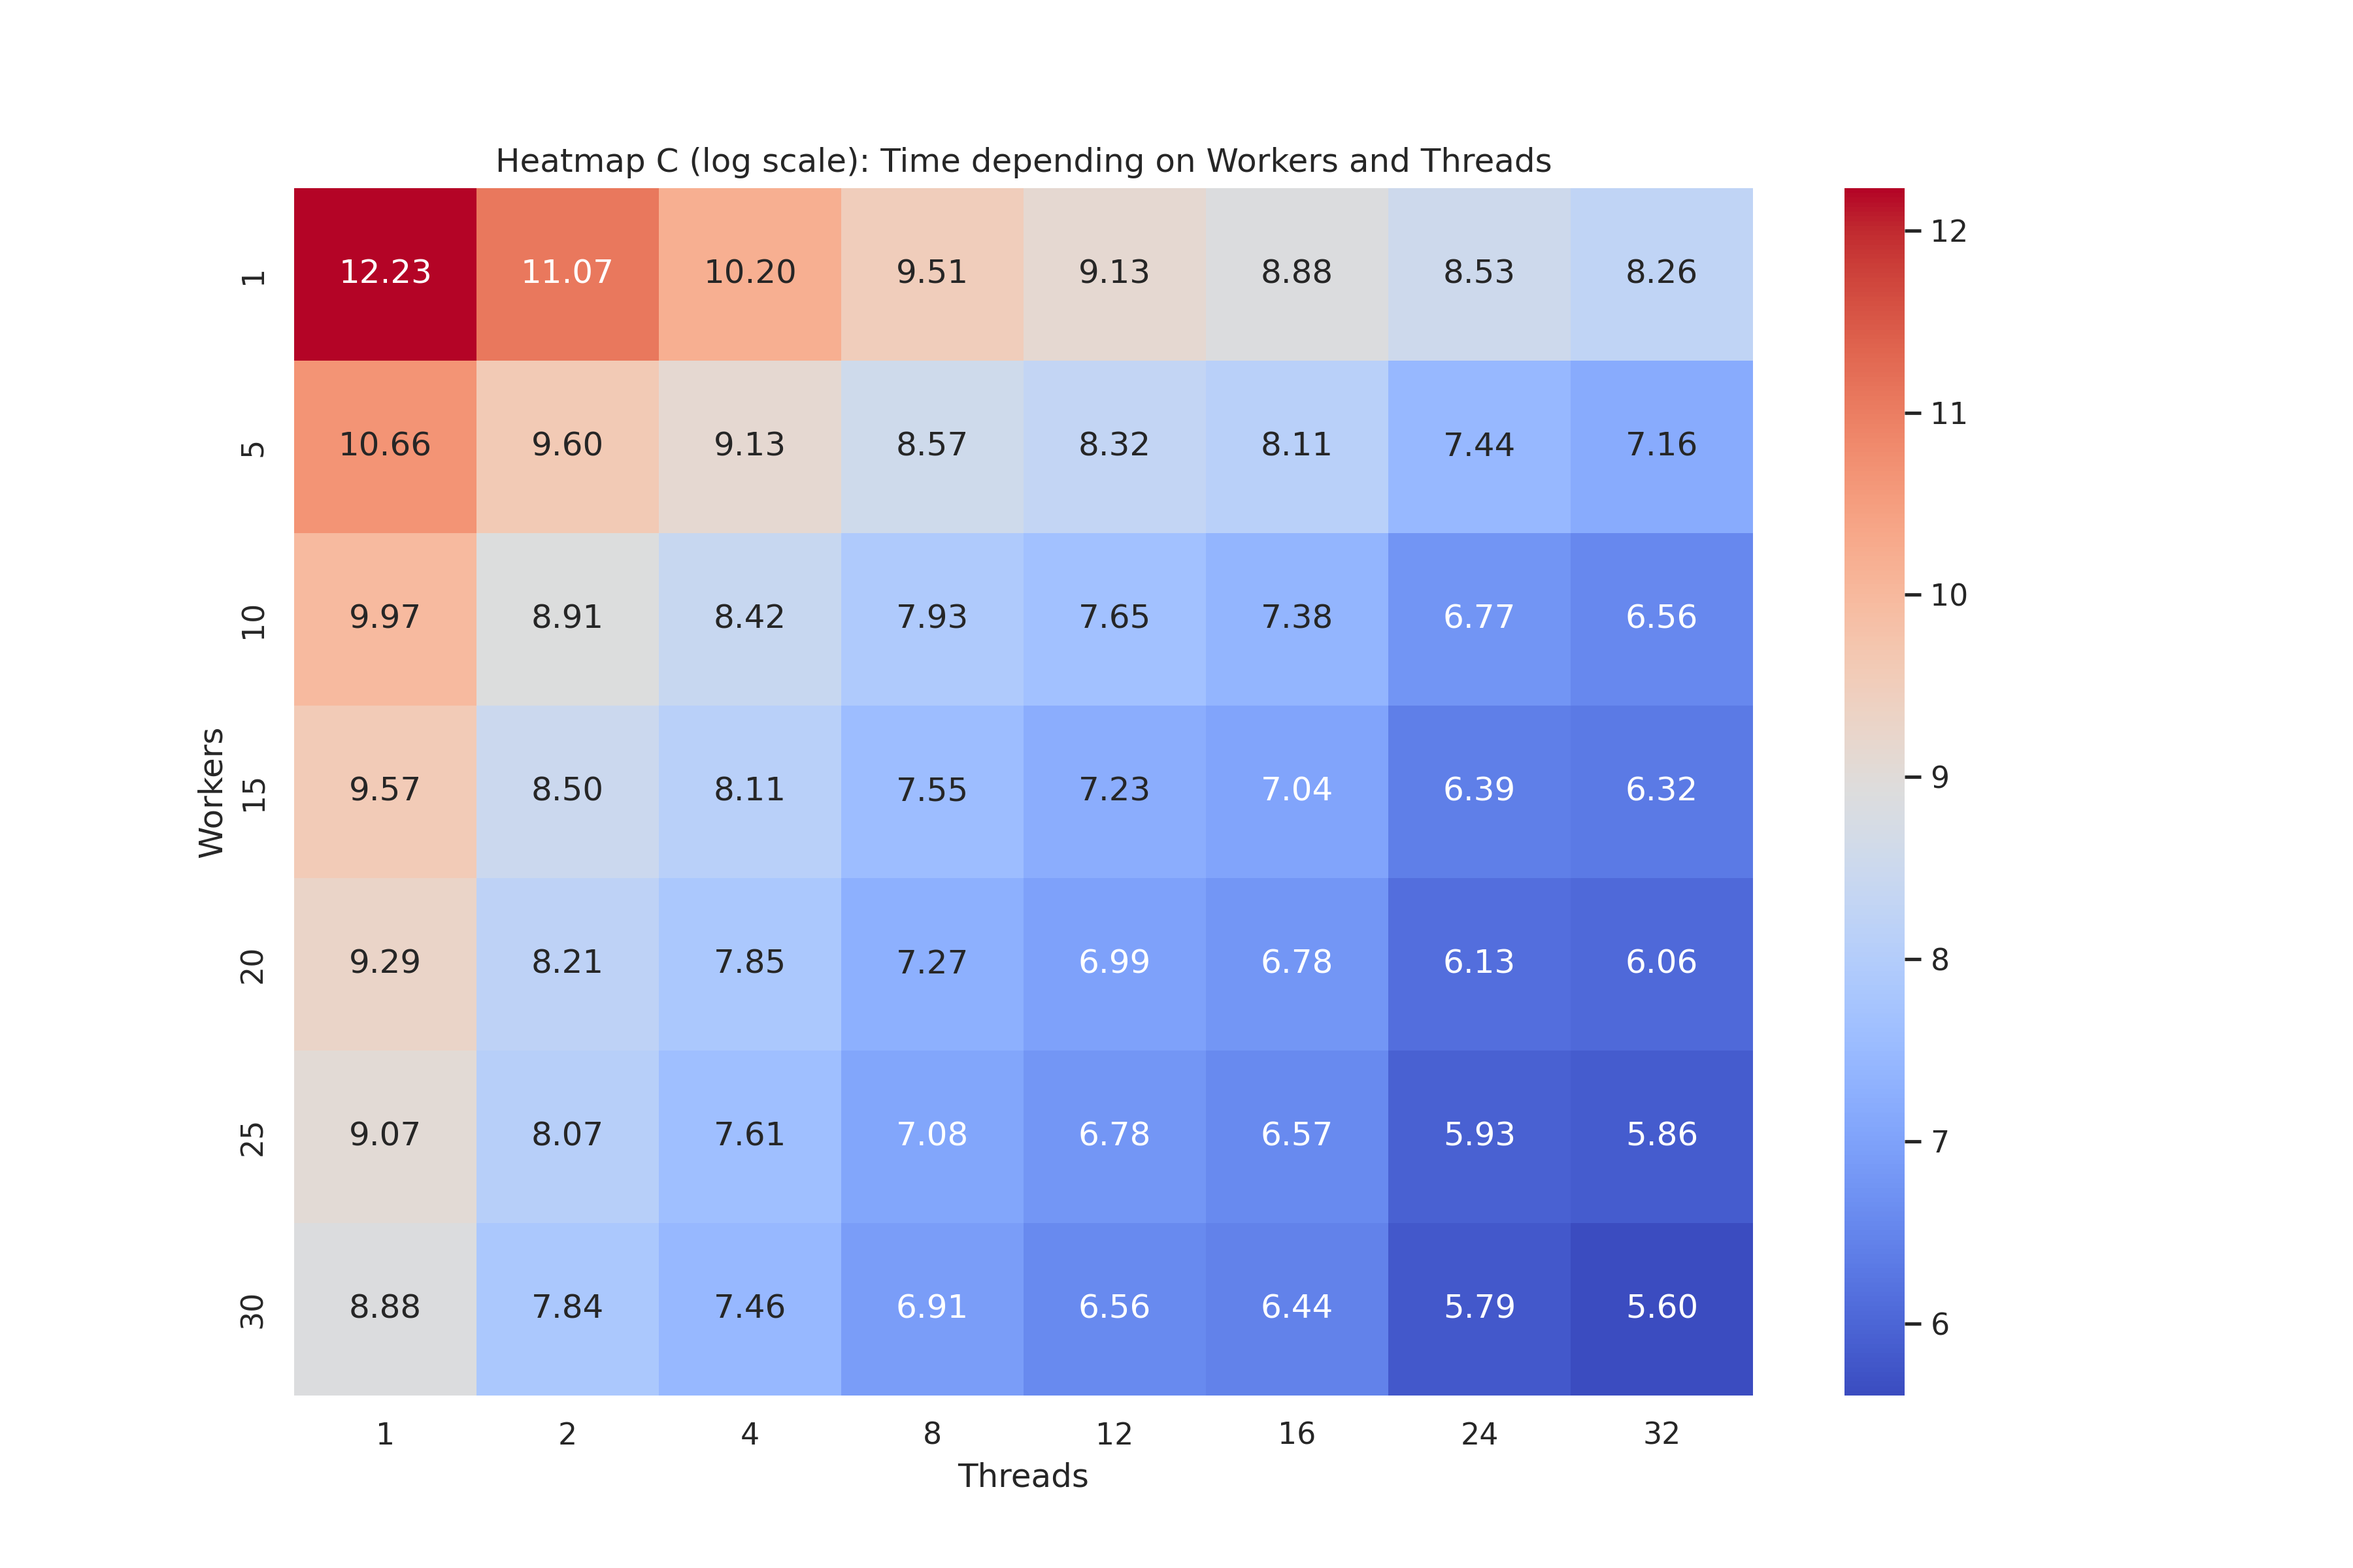
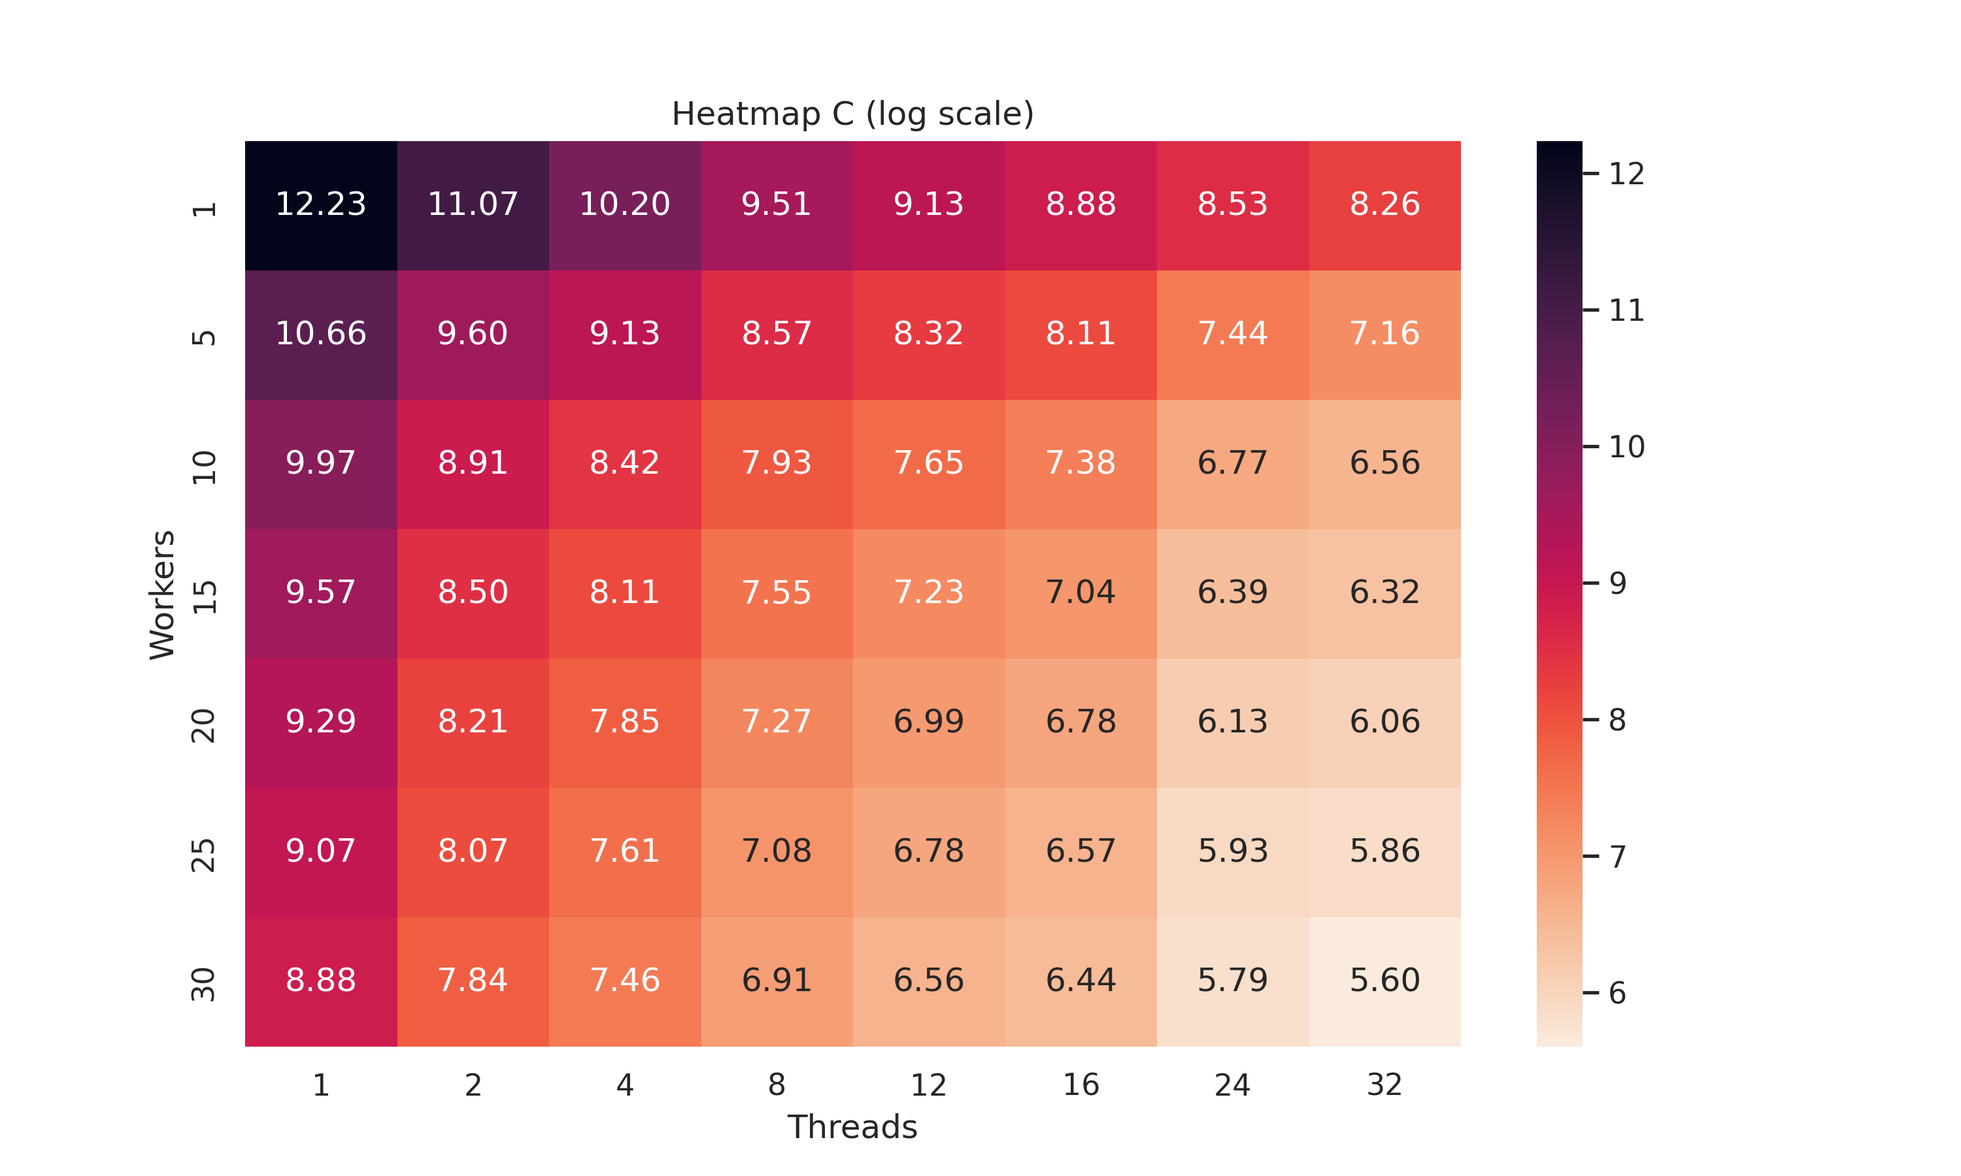
Removed cuda graph and added to combined, also modified figsize of several plots

diff --git a/resultados/result_diagrams.py b/resultados/result_diagrams.py
@@ -9,8 +9,6 @@ if not os.path.exists("diagrams"):
     os.makedirs("diagrams")
 
 
-# Función para crear todos los gráficos de las ejecuciones en C (múltiples optimizaciones)
-# columnas: n,workers,threads,total_cpus,opt_level,time
 def plot_graphs_c(data):
     if not os.path.exists("diagrams/c"):
         os.makedirs("diagrams/c")
@@ -18,17 +16,15 @@ def plot_graphs_c(data):
     sns.set_theme(style="whitegrid")
 
     pivot_table = np.log1p(data.pivot_table(values="time", index="workers", columns="threads"))
-    plt.figure(figsize=(12, 8))
-    sns.heatmap(pivot_table, annot=True, fmt=".2f", cmap="coolwarm")
-    plt.title("Heatmap C (log scale): Time depending on Workers and Threads")
+    plt.figure(figsize=(10, 6))
+    sns.heatmap(pivot_table, annot=True, fmt=".2f", cmap="rocket_r")
+    plt.title("Heatmap C (log scale)")
     plt.xlabel("Threads")
     plt.ylabel("Workers")
     plt.savefig("diagrams/c/heatmap_time.png", dpi=300)
     plt.close()
 
 
-# Función para crear todos los gráficos de las ejecuciones en Java (sin optimizaciones)
-# columnas: n,workers,threads,total_cpus,time
 def plot_graphs_java(data):
     if not os.path.exists("diagrams/java"):
         os.makedirs("diagrams/java")
@@ -36,40 +32,18 @@ def plot_graphs_java(data):
     sns.set_theme(style="whitegrid")
 
     pivot_table = np.log1p(data.pivot_table(values="time", index="workers", columns="threads"))
-    plt.figure(figsize=(12, 8))
-    sns.heatmap(pivot_table, annot=True, fmt=".1f", cmap="coolwarm")
-    plt.title("Heatmap Java (log scale): Time depending on Workers and Threads")
+    plt.figure(figsize=(10, 6))
+    sns.heatmap(pivot_table, annot=True, fmt=".2f", cmap="rocket_r")
+    plt.title("Heatmap Java (log scale)")
     plt.xlabel("Threads")
     plt.ylabel("Workers")
     plt.savefig("diagrams/java/heatmap_time.png", dpi=300)
     plt.close()
 
 
-# Función para crear todos los gráficos de las ejecuciones en CUDA (múltiples optimizaciones)
-# columnas: n,optimization,elapsed_time
-def plot_graphs_cuda(data):
-    if not os.path.exists("diagrams/cuda"):
-        os.makedirs("diagrams/cuda")
-
-    sns.set_theme(style="whitegrid")
-    custom_palette = sns.color_palette("bright")
-    lw = 1.5
-
-    plt.figure(figsize=(10, 6))
-    sns.lineplot(data=data, x="n", y="elapsed_time", hue="optimization", style="optimization", markers=True, dashes=False,
-                 palette=custom_palette, linewidth=lw, errorbar=None)
-    plt.title("Time vs. N")
-    plt.xlabel("N")
-    plt.ylabel("Time (s)")
-    plt.legend(title="Optimization")
-    plt.yscale("log")
-    plt.savefig("diagrams/cuda/time_vs_n_log.png", dpi=300)
-    plt.close()
-
-
-def plot_graphs_c_java_combined(c_data, java_data):
-    if not os.path.exists("diagrams/c_java"):
-        os.makedirs("diagrams/c_java")
+def plot_graphs_all_combined(c_data, java_data, cuda_data):
+    if not os.path.exists("diagrams/combined"):
+        os.makedirs("diagrams/combined")
 
     sns.set_theme(style="whitegrid")
     custom_palette = sns.color_palette("bright")
@@ -112,26 +86,47 @@ def plot_graphs_c_java_combined(c_data, java_data):
         ax.set_ylim(y_min - y_range * margin_factor, y_max + y_range * margin_factor)
         ax.set_xticks(x_ticks)
 
-    plt.savefig("diagrams/c_java/time_vs_threads.png", dpi=300)
+    plt.savefig("diagrams/combined/time_vs_threads.png", dpi=300)
     plt.close()
 
     # Single plot with Java data appended to the C data (adding a new column to the java one: opt_level = "Java")
     # Prepend "C" to the opt_level column of the C data
-    java_data["opt_level"] = "Java (No Optimized)"
+    java_data["opt_level"] = "Java"
     c_data.sort_values(by="opt_level", inplace=True)
-    c_data["opt_level"] = "C-" + c_data["opt_level"].astype(str)
+    c_data["opt_level"] = "C -O" + c_data["opt_level"].astype(str)
     data_ = [c_data, java_data]
     combined_data = pd.concat(data_, ignore_index=True)
+    fastest_time_cuda = cuda_data["elapsed_time"].min() / 1000  # Convert to seconds
 
     plt.figure(figsize=(10, 6))
     sns.lineplot(data=combined_data, x="total_cpus", y="time", hue="opt_level", style="opt_level", markers=True, dashes=False,
                  palette=custom_palette, linewidth=lw, errorbar=None)
-    plt.title("Time vs. Total CPUs (C & Java)")
+    plt.scatter(x=1, y=fastest_time_cuda, color="g", label="CUDA", s=50, marker="x")
+    plt.title("Time vs. Total CPUs (C, Java and CUDA)")
     plt.xlabel("Total CPUs")
     plt.ylabel("Time (s)")
-    plt.legend(title="Optimization Level")
+    plt.legend(title="Execution type")
     plt.yscale("log")
-    plt.savefig("diagrams/c_java/time_vs_total_cpus_log_combined.png", dpi=300)
+    plt.savefig("diagrams/combined/time_vs_total_cpus_log_combined.png", dpi=300)
+    plt.close()
+
+def c_speedup(data):
+    if not os.path.exists("diagrams/c"):
+        os.makedirs("diagrams/c")
+
+    sns.set_theme(style="whitegrid")
+
+    # Calcular speedup respecto a la ejecución secuencial (total_cpus = 1, opt_level = 0)
+    sequential_time = data[(data["total_cpus"] == 1) & (data["opt_level"] == "C -O0")]["time"].min()
+    data["speedup"] = sequential_time / data["time"]
+    plt.figure(figsize=(10, 6))
+    sns.lineplot(data=data, x="total_cpus", y="speedup", hue="opt_level", style="opt_level", markers=True, dashes=False,
+                 palette="bright", linewidth=1.5, errorbar=None)
+    plt.title("Speedup vs. Total CPUs (C)")
+    plt.xlabel("Total CPUs")
+    plt.ylabel("Speedup")
+    plt.legend(title="Optimization level")
+    plt.savefig("diagrams/c/speedup_vs_total_cpus.png", dpi=300)
     plt.close()
 
 
@@ -144,5 +139,5 @@ if __name__ == "__main__":
     # Crear gráficos
     plot_graphs_c(data_c)
     plot_graphs_java(data_java)
-    plot_graphs_cuda(data_cuda)
-    plot_graphs_c_java_combined(data_c, data_java)
+    plot_graphs_all_combined(data_c, data_java, data_cuda)
+    c_speedup(data_c)
